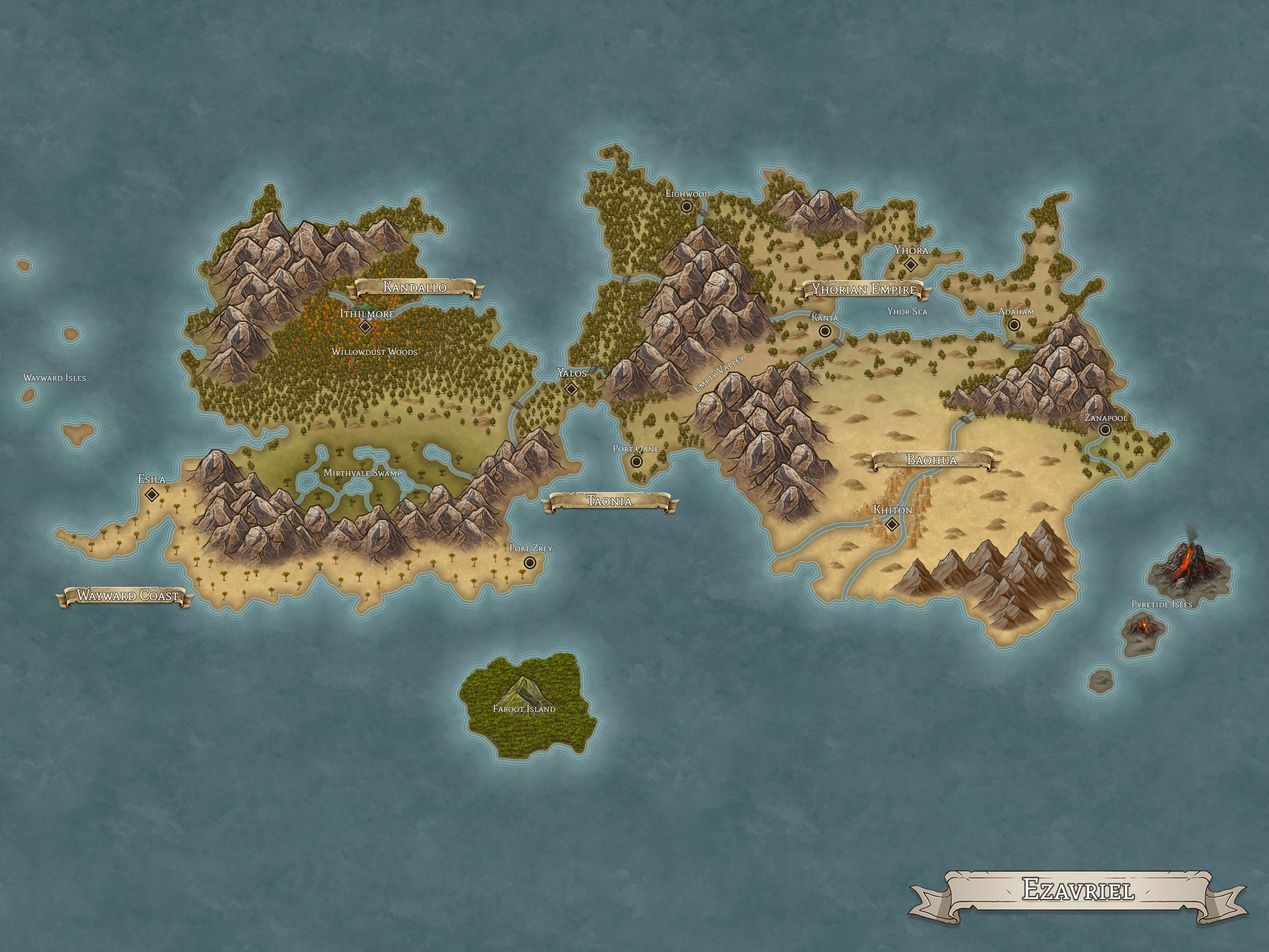
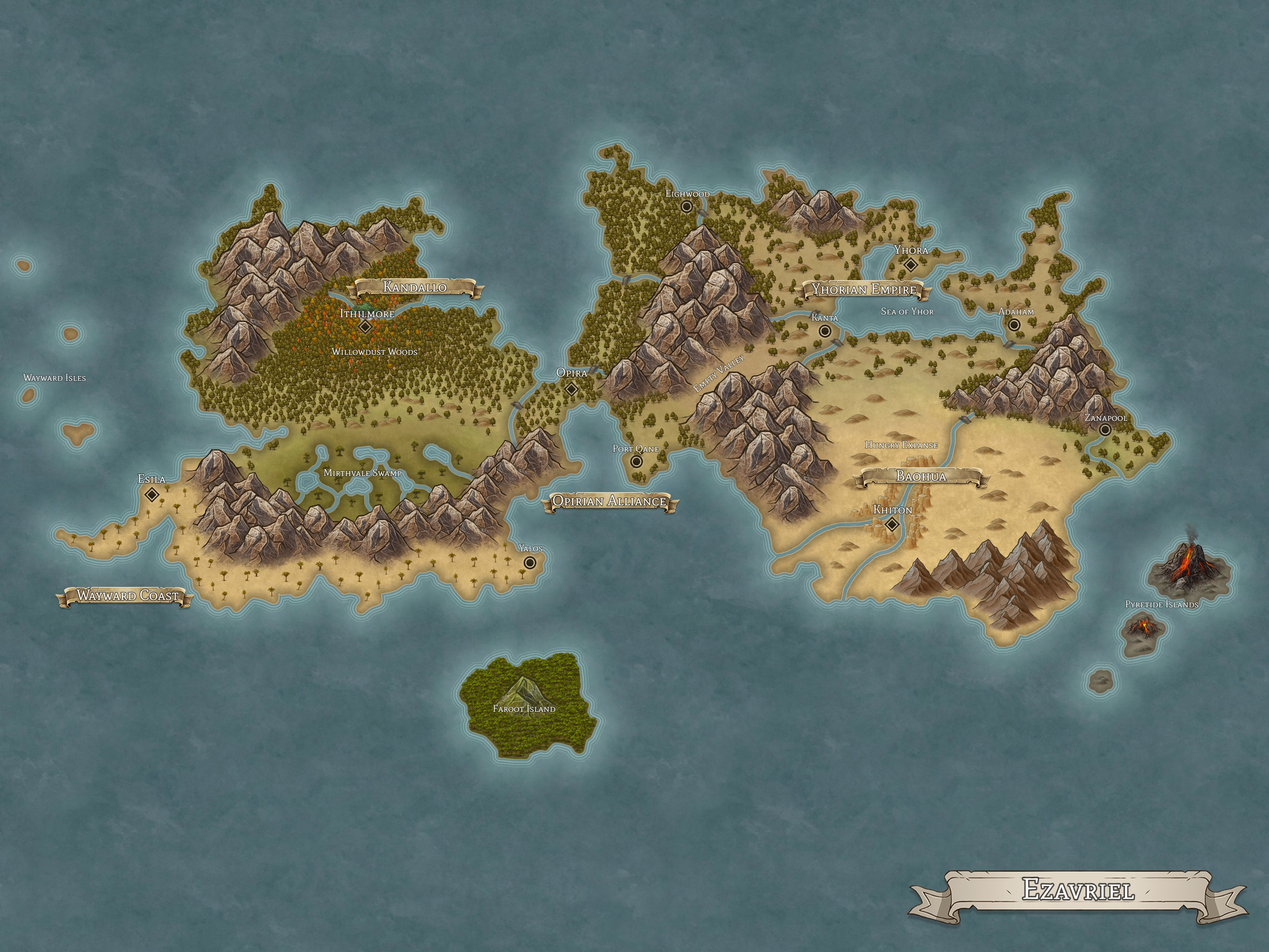
Updated map and added headers for POIs

diff --git a/Continents/Ezavriel.md b/Continents/Ezavriel.md
@@ -1,23 +1,22 @@
 ![[Ezavriel_Labeled.jpg]]
 
 # Ezavriel
-
 Ezavriel is a large, warm continent, located in the northern hemisphere of [[Eona]]. It is split into two halves, which are connected by land only by a single, central isthmus. 
 
 ## History
 History
 
 ## Nations
-Five nations occupy the continent: [[Ezavriel#Baohua | Baohua]], [[Ezavriel#Kandallo | Kandallo]], the [[Ezavriel#Taonia Alliance | Taonia Alliance]], the [[Ezavriel#Wayward Coast | Wayward Coast]], and the [[Ezavriel#Yhorian Empire | Yhorian Empire]]. They all govern their own people differently, but each nation is always on the lookout for ways to increase their territory, as well as their influence over Ezavriel.
+Five nations occupy the continent of Ezavriel: [[Baohua]], [[Kandallo]], the [[Opirian Alliance]], the [[Wayward Coast]], and the [[Yhorian Empire]]. They all govern their people differently, but each one is always on the lookout for ways to increase their territory, as well as their influence over Ezavriel. 
 
 ### Baohua
-The [[Baohua]] Nation is known to control most of the desert to the south east of Ezavriel. Its capital is [[Khiton]], is a large city built into and surrounded by massive mesas. 
+The [[Baohua]] nation is known to control most of the desert to the south east of Ezavriel. Its capital is [[Khiton]], is a large city built into and surrounded by massive mesas. 
 
 ### Kandallo
-To the northwest, the nation of [[Kandallo]] sits, nestled in the [[Willowdust Woods]]. 
+To the northwest, the nation of [[Kandallo]] sits, nestled in the [[Willowdust Woods]]. [[Ithilmore]] is its capital and is built around the World Tree.
 
-### Taonia Alliance
-The [[Taonia Alliance]] lays in the center of Ezavriel. The alliance is an agreement between many port cities and towns. The most influential settlement in the alliance is [[Yalos]].
+### Opirian Alliance
+The [[Opirian Alliance]] lays in the center of Ezavriel. The alliance is an agreement between many port cities and towns. The most influential settlement in the alliance is [[Opira]].
 
 ### Wayward Coast
 The [[Wayward Coast]] sits to the southwest of Ezavriel. The nation controls the seas and many small islands throughout the ocean to the west and south of the continent. It's capital and largest port is [[Esha]], located at the base on the peninsula that pokes out of the southwestern tip of Ezavriel. 
@@ -29,6 +28,24 @@ The [[Yhorian Empire]] is the most predominate nation of Ezavriel. It takes up t
 There are many key locations throughout the continent. Whether they are well-known historical sites or large geographical locations, each is detailed and linked below. 
 
 ### Willowdust Woods
-The [[Willowdust Woods]] is a large forest in north western Ezavriel. 
+The [[Willowdust Woods]] is a large forest in north western Ezavriel. It is known to be the land of [[Kandallo]]. 
+
+### Hungry Expanse
+The [[Hungry Expanse]] is a seemingly endless desert. It lays to the southeast of the continent and is controlled by the [[Baohua]] nation.
+
+### Mirthvale Swamp
+The [[Mirthvale Swamp]] are marshlands south of the [[Willowdust Woods]]. 
+
+### Sea of Yhor
+The [[Sea of Yhor]] is the largest body of water in Ezavriel. The [[Yhorian Empire]] surrounds the sea. 
+
+### Pyretide Islands
+The [[Pyretide Islands]] are a group of hotpot islands off the southeast coast of the continent. They are home to a number of active volcanoes. 
+
+### Wayward Isles
+The [[Wayward Isles]] are an array of tiny land masses that sprout from the western coast. 
+
+### Empty Valley
+[[Empty Valley]] is a treacherous valley passage, filled with bandits and dangerous beasts. The valley got its name from the empty wagons and supply crates that would come out the other side, if at all. 
 
 #Continent

diff --git a/Nations/Opirian Alliance.md b/Nations/Opirian Alliance.md
@@ -1,0 +1,4 @@
+# Opirian Alliance
+The Opirian (OH-PEER-EE-AN) Alliance is a collection of ports in the center of [[Ezavriel]]. It is capital is [[Yalos]], though other notable settlements in the alliance include [[Port Qane]] and [[Port Zrey]]. 
+
+#Nation 

diff --git a/Settlements/Opira.md b/Settlements/Opira.md
@@ -1,5 +1,5 @@
-# Yalos
-Yalos is a large port town within the [[Opirian Alliance]]. 
+# Opira
+Opira is a large port city and the capital of the [[Opirian Alliance]]. It lays on the main, central isthmus of [[Ezavriel]].
 
 ## Population
 Description

diff --git a/Settlements/Yhora.md b/Settlements/Yhora.md
@@ -1,5 +1,5 @@
-# Yalos
-Yalos is a large port town within the [[Opirian Alliance]]. 
+# Yhora
+Yhora is a large city that is the capital of the [[Yhorian Empire]]. 
 
 ## Population
 Description

diff --git a/Nations/Baohua.md b/Nations/Baohua.md
@@ -1,4 +1,4 @@
 # Baohua
-Baohua (B-OW-WHO-A) is a nation in the south eastern desert of [[Ezavriel]].
+Baohua (B-OW-WHO-A) is a nation in the south eastern desert of [[Ezavriel]]. 
 
 #Nation 

diff --git a/Settlements/Esha.md b/Settlements/Esha.md
@@ -1,5 +1,5 @@
-# Yalos
-Yalos is a large port town within the [[Opirian Alliance]]. 
+# Esha
+Esha is a coastal city and the capital of [[Wayward Coast]]. 
 
 ## Population
 Description

diff --git a/Nations/Yhorian Empire.md b/Nations/Yhorian Empire.md
@@ -1,4 +1,4 @@
 # Yhorian Empire
-The Yhorian Empire is the largest nation in [[Ezavriel]]. 
+The Yhorian (Y-OR-EE-AN) Empire is the largest nation in [[Ezavriel]]. 
 
 #Nation 

diff --git a/POIs/Willowdust Woods.md b/POIs/Willowdust Woods.md
@@ -1,4 +1,7 @@
 # Willowdust Woods
 The Willowdust Woods houses and is protected by [[Kandallo]]. 
 
+## History
+History
+
 #POI

diff --git a/Templates/POI_Template.md b/Templates/POI_Template.md
@@ -1,4 +1,7 @@
 # Name
 Description
 
+## History
+History
+
 #POI
